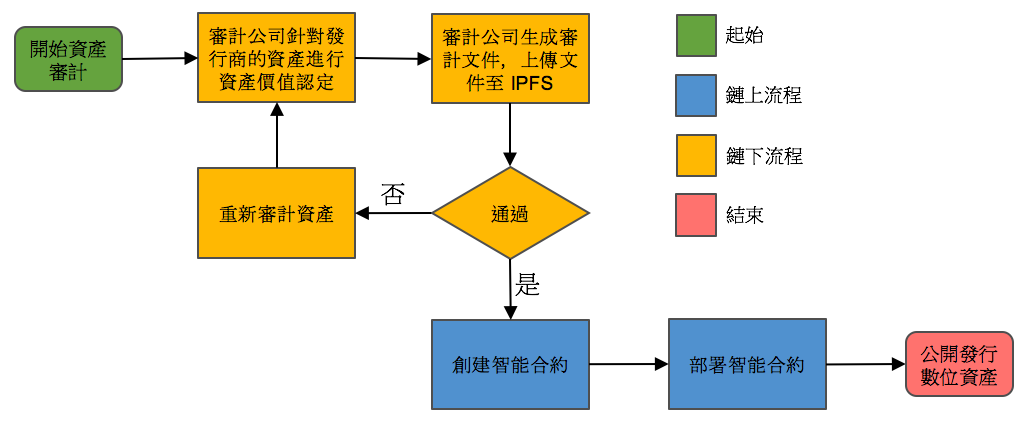
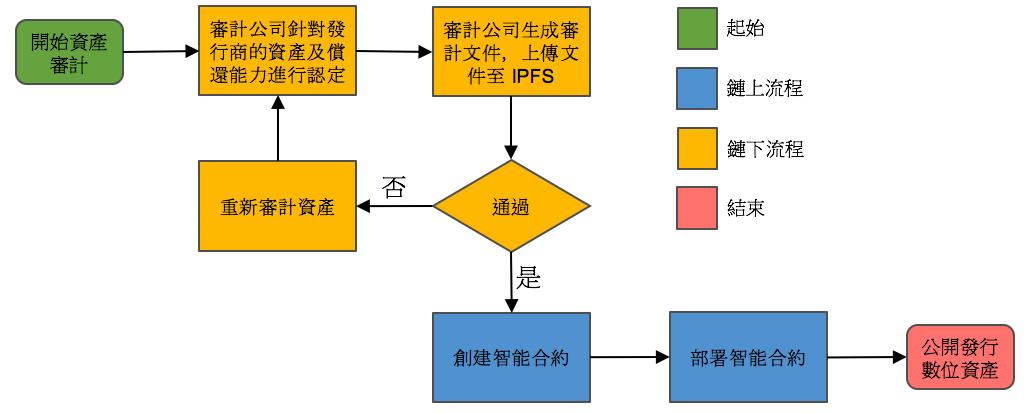
Update Proof of Assets

diff --git a/README.md b/README.md
@@ -32,9 +32,9 @@
 
 ![Product Life Cycle](./images/Product_Life_Cycle.png)
 
-### Proof of Assets Process
+### Proof of Assets / Proof of Solvency Process
 
-資產驗證流程
+資產驗證流程包含資產驗證與償還能力審查。
 
 ![Proof of Assets](./images/Proof_of_Assets.png)
 
@@ -56,9 +56,9 @@ Token 交易流程，次級市場交易模式
 
 利息分派流程
 
-## Proof of Asset / Cryptographic Audit / Proof of Solvency 
+## Proof of Asset / Proof of Solvency / Cryptographic Audit
 
-資產認證將驗證透過多方公正單位提出的資產證明來認證，只有透過資產證明流程才可以發布 Token 至 Ethereum 區塊鏈上。
+資產認證將驗證透過多方公正單位提出的資產證明來認證，只有透過資產證明流程才可以發布 Smart Contract 至 Ethereum 區塊鏈上。
 資產認證文件將會放到 IPFS 上，建立與智能合約的連結方便隨時查驗。
 償還能力認證將透過檢驗發債方的償債能力來決定利率與發債的規模。
 
